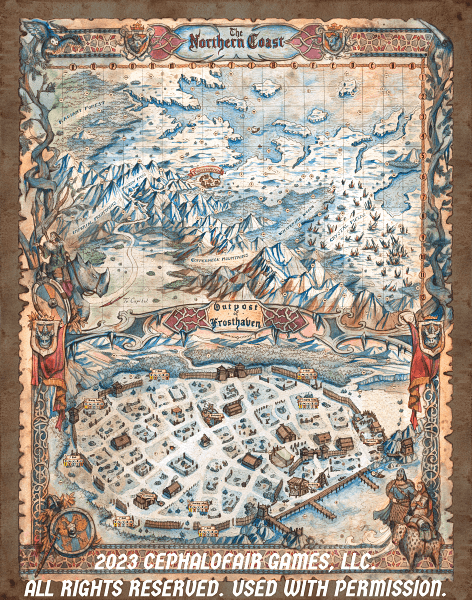
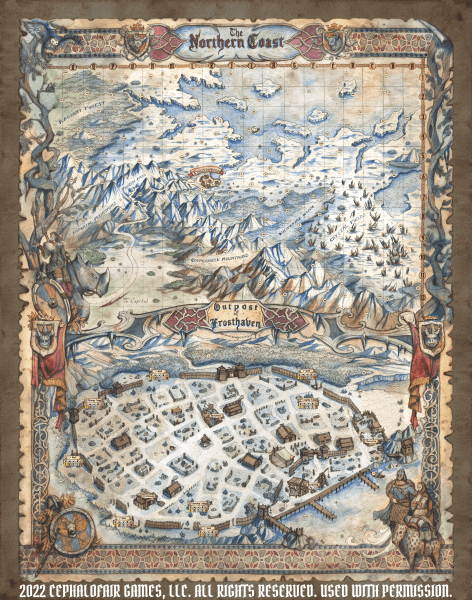
Implement New FH WM Assets with Copyright, Standardized Sizes & Asset Numbers

diff --git a/index.html b/index.html
@@ -10393,6 +10393,7 @@
 					<h1><i class="fa fa-plus"></i> World Map </h1>
 					<div class="textzone">
 						<table class="table-padded">
+							<tr><td class="td-bu">Asset Name</td></tr>
 							<tr><td>Frosthaven Map</td></tr>
 						</table>
 					</div>
@@ -14057,6 +14058,7 @@
 					<h1><i class="fa fa-plus"></i> World Map </h1>
 					<div class="textzone">
 						<table class="table-padded">
+							<tr><td class="td-bu">Asset Name</td></tr>
 							<tr><td>Frosthaven Map</td></tr>
 						</table>
 					</div>

diff --git a/data/world-map.js b/data/world-map.js
@@ -2291,7 +2291,8 @@
     "name": "frosthaven map",
     "points": 286,
     "expansion": "frosthaven",
-    "image": "world-map/frosthaven/fh-frosthaven-map.png",
-    "xws": "frosthavenmap"
+    "image": "world-map/frosthaven/fh-frosthaven map.png",
+    "xws": "frosthavenmap",
+    "assetno": "###"
   }
 ]
